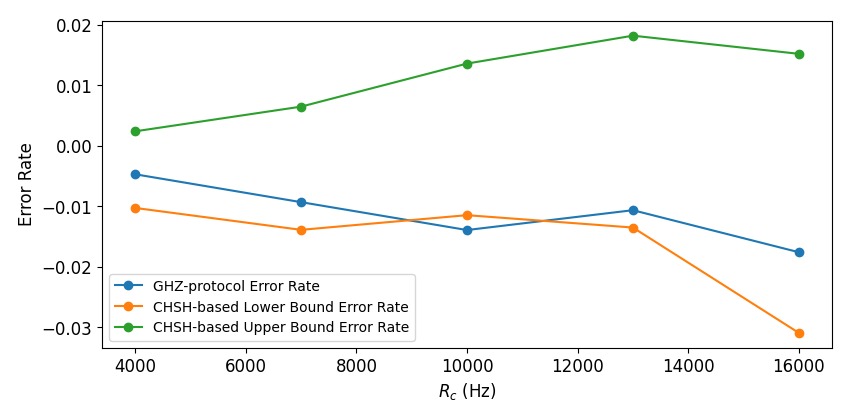
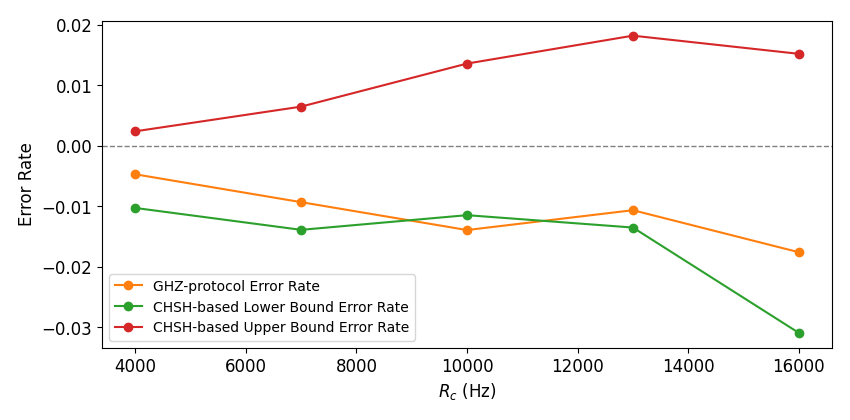
zero line and right color

diff --git a/new_chsh/results/plot_figure_both.py b/new_chsh/results/plot_figure_both.py
@@ -6,12 +6,13 @@ This keeps the original API and variable names while adding:
 
 * **process_chsh_results** – scans sister folders with suffix `_chsh`, extracts Run 1 `s_value` and computes lower/upper CHSH‐based fidelity bounds.
 * **plot_figure** – overlays Actual vs. GHZ-protocol Estimated Fidelity (and CHSH bounds when available). For **Change Depolar Rate**, discards any rates ≤ 2000 Hz and only plots starting at 4000 Hz.
-* **plot_error_rate** – computes three error‐rate curves:
-  - GHZ‐protocol Error Rate = (GHZ_est − Actual) / Actual
-  - CHSH‐based Lower Bound Error Rate = (CHSH_low − Actual) / Actual
-  - CHSH‐based Upper Bound Error Rate = (CHSH_up − Actual) / Actual
+* **plot_error_rate_triplet** – computes and plots three error‐rate curves:
+    - GHZ‐protocol Error Rate = (GHZ_est − Actual) / Actual
+    - CHSH‐based Lower Bound Error Rate = (CHSH_low − Actual) / Actual
+    - CHSH‐based Upper Bound Error Rate = (CHSH_up − Actual) / Actual
+  It also draws a horizontal zero‐line and matches each curve’s color to the corresponding fidelity curve.
 
-Six figures in total (three fidelity and three error‐rate) are saved under `./figures`.
+Six figures in total (three fidelity + three error‐rate) are saved under `./figures`.
 """
 
 import json
@@ -19,7 +20,7 @@ import os
 import re
 from math import sqrt
 from pathlib import Path
-from typing import List, Sequence, Tuple, Optional
+from typing import List, Optional, Sequence, Tuple
 
 import matplotlib.pyplot as plt
 import numpy as np
@@ -38,13 +39,16 @@ plt.rcParams.update({
 # --------------------------------------------------------------------
 # GHZ result processing (original behaviour)
 # --------------------------------------------------------------------
-def process_results(file_path: str, re_expressions: str) -> Tuple[
-    List[float], Optional[List[float]], List[float], List[float]
-]:
-    """Parse GHZ JSON files in a folder."""
-    factors, second_vals_dict = [], {}
-    actual_dict, est_dict = {}, {}
+def process_results(file_path: str,
+                    re_expressions: str
+                   ) -> Tuple[List[float], Optional[List[float]], List[float], List[float]]:
+    """Parse GHZ JSON files in a folder (single-run datasets)."""
+    factors: List[float] = []
+    second_vals_dict: dict = {}
+    actual_dict: dict = {}
+    est_dict: dict = {}
     multi_factor = False
+
     for root, _, files in os.walk(file_path):
         for fname in files:
             m = re.search(re_expressions, fname)
@@ -56,19 +60,21 @@ def process_results(file_path: str, re_expressions: str) -> Tuple[
                 multi_factor = True
             else:
                 factors.append(factor)
+
             with open(Path(root, fname), "r", encoding="utf-8") as f:
                 data = json.load(f)
             actual = np.mean(list(data["actual_fid"].values())[0])
             p_ghz  = list(data["p_ghz"].values())[0]
             est    = 2 * p_ghz - 1
+
             actual_dict[factor] = actual
-            est_dict[factor]    = est
+            est_dict[factor] = est
 
     if multi_factor:
-        factors     = sorted(second_vals_dict.keys())
+        factors = sorted(second_vals_dict.keys())
         second_vals = [second_vals_dict[x] for x in factors]
     else:
-        factors     = sorted(factors)
+        factors = sorted(factors)
         second_vals = None
 
     actual = [actual_dict[x] for x in factors]
@@ -78,13 +84,16 @@ def process_results(file_path: str, re_expressions: str) -> Tuple[
 # --------------------------------------------------------------------
 # CHSH companion processing
 # --------------------------------------------------------------------
-def process_chsh_results(folder_chsh: str, re_expressions: str,
-                         factors_order: List[float]) -> Tuple[List[float], List[float]]:
+def process_chsh_results(folder_chsh: str,
+                         re_expressions: str,
+                         factors_order: List[float]
+                        ) -> Tuple[List[float], List[float]]:
     """Compute CHSH-based lower/upper fidelity bounds aligned to factors_order."""
     low_d, up_d = {}, {}
     if not os.path.isdir(folder_chsh):
         nan = [np.nan] * len(factors_order)
         return nan, nan
+
     for root, _, files in os.walk(folder_chsh):
         for fname in files:
             m = re.search(re_expressions, fname)
@@ -132,7 +141,7 @@ def plot_lines(xs: Sequence[Sequence[float]],
     plt.close()
 
 # --------------------------------------------------------------------
-# Error-rate plotting helper (three curves)
+# Error-rate plotting helper (three curves) with zero‐line & matched colors
 # --------------------------------------------------------------------
 def plot_error_rate_triplet(factors: List[float],
                             actual: List[float],
@@ -143,25 +152,34 @@ def plot_error_rate_triplet(factors: List[float],
                             x_label: str,
                             save_dir: str = "./figures"):
     """
-    Compute three error‐rate curves:
-      - GHZ‐protocol: (ghz_est − actual) / actual
-      - CHSH‐lower:   (chsh_low − actual) / actual
-      - CHSH‐upper:   (chsh_up − actual) / actual
-    and plot them together.
+    Compute and plot three error‐rate curves:
+      - GHZ‐protocol Error Rate
+      - CHSH‐based Lower Bound Error Rate
+      - CHSH‐based Upper Bound Error Rate
+    Draws a horizontal zero‐line and matches colors to the fidelity plot.
     """
     os.makedirs(save_dir, exist_ok=True)
+
+    # compute error‐rates
     err_ghz = [(e - a) / a for a, e in zip(actual, ghz_est)]
     err_lo  = [(l - a) / a for a, l in zip(actual, chsh_low)]
     err_hi  = [(u - a) / a for a, u in zip(actual, chsh_up)]
 
-    legends = ["GHZ-protocol Error Rate",
-               "CHSH-based Lower Bound Error Rate",
-               "CHSH-based Upper Bound Error Rate"]
-    ys = [err_ghz, err_lo, err_hi]
+    # get default color cycle
+    colors = plt.rcParams['axes.prop_cycle'].by_key()['color']
 
     fig, ax = plt.subplots()
-    for y, leg in zip(ys, legends):
-        ax.plot(factors, y, label=leg, marker="o")
+    # zero reference line
+    ax.axhline(0, linestyle='--', linewidth=1, color='gray')
+
+    # plot with matching colors:
+    ax.plot(factors, err_ghz, label="GHZ-protocol Error Rate",
+            marker="o", color=colors[1])
+    ax.plot(factors, err_lo,  label="CHSH-based Lower Bound Error Rate",
+            marker="o", color=colors[2])
+    ax.plot(factors, err_hi,  label="CHSH-based Upper Bound Error Rate",
+            marker="o", color=colors[3])
+
     ax.set_xlabel(x_label)
     ax.set_ylabel("Error Rate")
     ax.legend(fontsize=10)
@@ -177,11 +195,11 @@ def plot_figure(folder: str,
                 title: str,
                 x_label: str,
                 save_dir: str = "./figures"):
-    """Plot fidelity curves; sample size and depolar rate get custom handling."""
+    """Plot fidelity curves; custom handling for sample size & depolar rate."""
     factors, second_vals, actual, est = process_results(folder, re_expr)
     low, up = process_chsh_results(f"{folder}_chsh", re_expr, factors)
 
-    # filter out ≤2000 Hz and start at 4000 Hz for depolar-rate plots
+    # for Change Depolar Rate: drop ≤2000 Hz, keep ≥4000 Hz
     if title == "Change Depolar Rate":
         idx = [i for i, f in enumerate(factors) if f >= 4000]
         factors    = [factors[i]    for i in idx]
@@ -197,11 +215,10 @@ def plot_figure(folder: str,
     if not np.all(np.isnan(low)):
         ys      += [low, up]
         legends += ["CHSH-based Lower Bound", "CHSH-based Upper Bound"]
-
     annotation = second_vals if second_vals is not None else None
 
     if title == "Change Sample Size":
-        # custom x-axis labels for sample size
+        # custom sample-size x-axis
         fig, ax = plt.subplots()
         for x, y, leg in zip([factors]*len(ys), ys, legends):
             ax.plot(x, y, label=leg, marker="o")
@@ -219,19 +236,21 @@ def plot_figure(folder: str,
                    save_dir=save_dir, annotation=annotation, ncols=2)
 
 # --------------------------------------------------------------------
-# Wrapper for twin folders: fidelity + error
+# Wrapper: fidelity + error for twin folders
 # --------------------------------------------------------------------
-def plot_all_twin(folder1: str, folder2: str,
-                  re_expr: str, title: str,
-                  x_label: str, save_dir: str = "./figures"):
-    # Fidelity plots
+def plot_all_twin(folder1: str,
+                  folder2: str,
+                  re_expr: str,
+                  title: str,
+                  x_label: str,
+                  save_dir: str = "./figures"):
+    # fidelity plots
     plot_figure(folder1, re_expr, title, x_label, save_dir)
     plot_figure(folder2, re_expr, title, x_label, save_dir)
-    # Error‐rate plots (they use identical data)
-    # process once to get arrays
+
+    # error‐rate plot (once)
     factors, _, actual, est = process_results(folder1, re_expr)
     low, up = process_chsh_results(f"{folder1}_chsh", re_expr, factors)
-    # apply depolar-rate filter if needed
     if title == "Change Depolar Rate":
         idx = [i for i, f in enumerate(factors) if f >= 4000]
         factors = [factors[i] for i in idx]
@@ -239,6 +258,7 @@ def plot_all_twin(folder1: str, folder2: str,
         est     = [est[i]     for i in idx]
         low     = [low[i]     for i in idx]
         up      = [up[i]      for i in idx]
+
     plot_error_rate_triplet(factors, actual, est, low, up,
                             title, x_label, save_dir)
 
